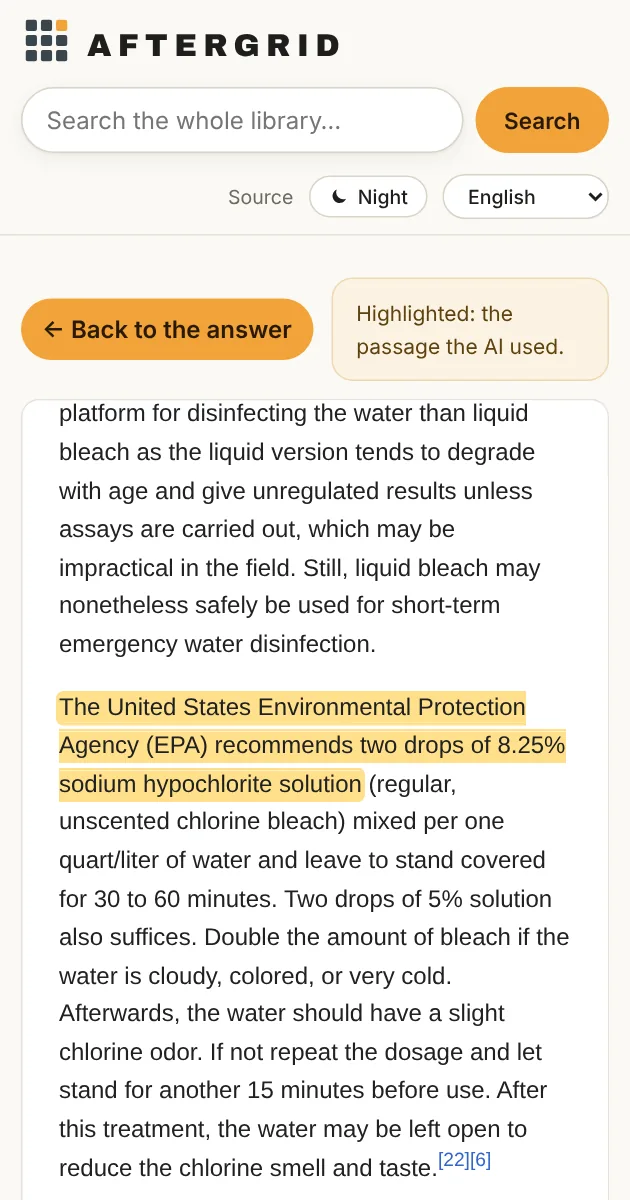
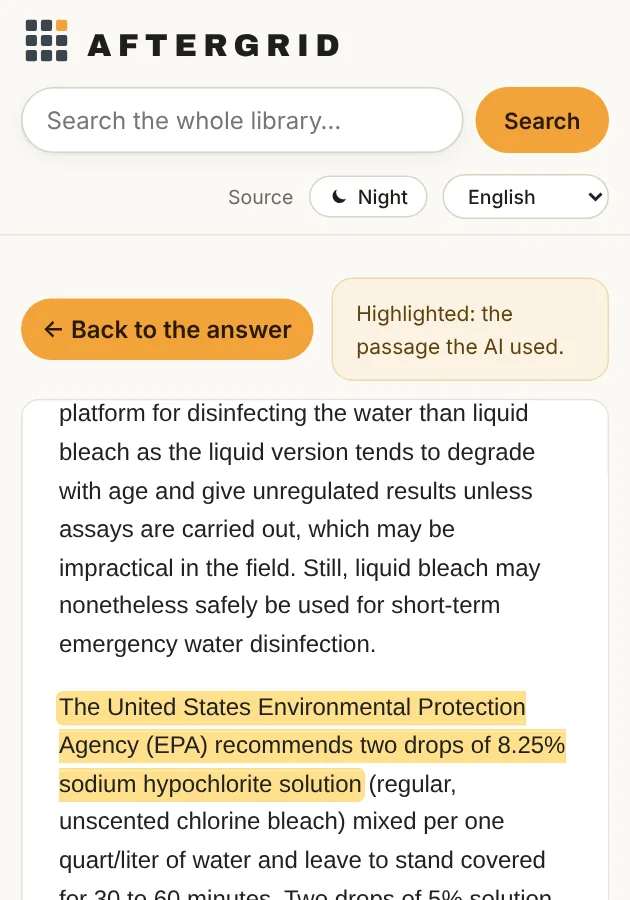
README: even screenshot grids, cropped tall images, repo layout. Landing: relative paths, fixed image shapes
Claude-Session: https://claude.ai/code/session_01427zrCsiu9qYPYssAzgq4C

diff --git a/landing/index.html b/landing/index.html
@@ -7,17 +7,17 @@
 <meta name="description" content="Aftergrid turns any PC into an offline survival and medical station: a backup of Wikipedia's medical library, 30 first-aid cards with diagrams, offline maps and a private AI that answers from the library, all from one USB stick. No internet needed. $19.99.">
 <meta property="og:title" content="Aftergrid: when the grid goes down, Aftergrid boots up">
 <meta property="og:description" content="Offline medical and survival library, maps and an on-device AI on one USB stick. Boots any PC. No internet needed.">
-<meta property="og:image" content="/assets/img/home-day.webp">
+<meta property="og:image" content="assets/img/home-day.webp">
 <meta name="theme-color" content="#faf9f5">
-<link rel="icon" href="/favicon.ico">
-<link rel="preload" href="/assets/fonts/archivo-black.woff2" as="font" type="font/woff2" crossorigin>
+<link rel="icon" href="favicon.ico">
+<link rel="preload" href="assets/fonts/archivo-black.woff2" as="font" type="font/woff2" crossorigin>
 <style>
-@font-face{font-family:"Inter";src:url(/assets/fonts/inter-regular.woff2) format("woff2");font-weight:400;font-display:swap}
-@font-face{font-family:"Inter";src:url(/assets/fonts/inter-medium.woff2) format("woff2");font-weight:500;font-display:swap}
-@font-face{font-family:"Inter";src:url(/assets/fonts/inter-semibold.woff2) format("woff2");font-weight:600;font-display:swap}
-@font-face{font-family:"Inter";src:url(/assets/fonts/inter-bold.woff2) format("woff2");font-weight:700;font-display:swap}
-@font-face{font-family:"Lora";src:url(/assets/fonts/lora.woff2) format("woff2");font-weight:400 700;font-display:swap}
-@font-face{font-family:"Archivo Black";src:url(/assets/fonts/archivo-black.woff2) format("woff2");font-display:swap}
+@font-face{font-family:"Inter";src:url(assets/fonts/inter-regular.woff2) format("woff2");font-weight:400;font-display:swap}
+@font-face{font-family:"Inter";src:url(assets/fonts/inter-medium.woff2) format("woff2");font-weight:500;font-display:swap}
+@font-face{font-family:"Inter";src:url(assets/fonts/inter-semibold.woff2) format("woff2");font-weight:600;font-display:swap}
+@font-face{font-family:"Inter";src:url(assets/fonts/inter-bold.woff2) format("woff2");font-weight:700;font-display:swap}
+@font-face{font-family:"Lora";src:url(assets/fonts/lora.woff2) format("woff2");font-weight:400 700;font-display:swap}
+@font-face{font-family:"Archivo Black";src:url(assets/fonts/archivo-black.woff2) format("woff2");font-display:swap}
 
 :root{
   --bg:#faf9f5; --surface:#fff; --sunk:#f2f0e8; --line:#e6e2d7; --line2:#d9d4c6;
@@ -32,7 +32,7 @@
 *{box-sizing:border-box}
 html{scroll-behavior:smooth}
 body{margin:0;background:var(--bg);color:var(--txt);font:17px/1.6 var(--sans);-webkit-font-smoothing:antialiased;overflow-x:hidden}
-img{max-width:100%;display:block}
+img{max-width:100%;height:auto;display:block}
 a{color:inherit}
 .wrap{max-width:var(--max);margin:0 auto;padding:0 24px}
 h1,h2,h3{margin:0;line-height:1.1}
@@ -274,13 +274,23 @@ footer a{color:#a29e95}
 .mbuy .btn{width:100%;padding:17px}
 @media(max-width:760px){.mbuy{display:block}}
 @media(prefers-reduced-motion:reduce){.reveal{opacity:1;transform:none;transition:none}.blackout{height:auto}.blackout .stage{position:relative;height:auto;padding:120px 0;background:var(--night);color:#e9e7e1}.blackout .line{position:relative;opacity:1;transform:none;margin:20px 0}.blackout .lines{height:auto}}
+
+/* shape locks */
+.diagrams img{width:100%;aspect-ratio:4/3;object-fit:contain;background:#fff}
+.shot-pair img{width:100%;aspect-ratio:7/10;object-fit:cover;object-position:top;background:#fff}
+.step img{width:100%;aspect-ratio:16/10;object-fit:cover;object-position:top;background:#0e1012}
+.step img.contain{object-fit:contain;background:#f3f3f3}
+.figs img{aspect-ratio:4/3;object-fit:contain}
+.maps-wrap img{aspect-ratio:16/10;object-fit:cover}
+.device img{width:100%;aspect-ratio:16/10;object-fit:cover;object-position:top}
+.hero-art .phone{aspect-ratio:390/844;object-fit:cover;object-position:top;background:#fff}
 </style>
 </head>
 <body>
 
 <nav class="top" id="nav">
   <div class="wrap">
-    <a class="brand" href="#top"><img src="/assets/aftergrid-mark.svg" alt=""><span>AFTERGRID</span></a>
+    <a class="brand" href="#top"><img src="assets/aftergrid-mark.svg" alt=""><span>AFTERGRID</span></a>
     <div class="navlinks">
       <a href="#ai">Offline AI</a>
       <a href="#library">Wikipedia &amp; library</a>
@@ -311,8 +321,8 @@ footer a{color:#a29e95}
       </div>
     </div>
     <div class="hero-art reveal d2">
-      <div class="device"><img src="/assets/img/home-day.webp" alt="Aftergrid Field Mode home screen" width="1440" height="900"><div class="stick"><i></i></div></div>
-      <img class="phone" src="/assets/img/phone-home.webp" alt="Aftergrid on a phone" width="390" height="844">
+      <div class="device"><img src="assets/img/home-day.webp" alt="Aftergrid Field Mode home screen" width="1440" height="900"><div class="stick"><i></i></div></div>
+      <img class="phone" src="assets/img/phone-home.webp" alt="Aftergrid on a phone" width="390" height="844">
     </div>
   </div>
 </header>
@@ -345,7 +355,7 @@ footer a{color:#a29e95}
     </div>
     <div class="ai-grid">
       <div class="term reveal">
-        <div class="term-bar"><img src="/assets/aftergrid-mark.svg" alt="" width="16" height="16">Ask Aftergrid <span class="pill">OFFLINE</span></div>
+        <div class="term-bar"><img src="assets/aftergrid-mark.svg" alt="" width="16" height="16">Ask Aftergrid <span class="pill">OFFLINE</span></div>
         <div class="term-body">
           <div class="askbox"><div class="q" id="q"></div><b>Ask</b></div>
           <div class="qchips" id="chips"></div>
@@ -358,8 +368,8 @@ footer a{color:#a29e95}
         <div class="pt reveal d3"><h3><i>③</i>It checks its own numbers</h3><p>Doses, drops, minutes: if a figure in the answer isn't in the sources, Aftergrid flags it so you check before you act.</p></div>
         <div class="pt reveal d4"><h3><i>④</i>Shows the diagram</h3><p>Medical answers come with the matching first-aid illustration, while the answer is still being written.</p></div>
         <div class="shot-pair reveal">
-          <img src="/assets/img/ask-answer.webp" alt="A real Aftergrid answer on a phone, with sources" loading="lazy" width="630" height="1688">
-          <img src="/assets/img/source-highlight.webp" alt="Source page with the passage the AI used highlighted" loading="lazy" width="630" height="1200">
+          <img src="assets/img/ask-answer.webp" alt="A real Aftergrid answer on a phone, with sources" loading="lazy" width="630" height="900">
+          <img src="assets/img/source-highlight.webp" alt="Source page with the passage the AI used highlighted" loading="lazy" width="630" height="900">
         </div>
       </div>
     </div>
@@ -407,15 +417,15 @@ footer a{color:#a29e95}
       <div class="cardlist">
         <span>Severe bleeding</span><span>Tourniquet</span><span>CPR</span><span>Choking (adult &amp; infant)</span><span>Stroke</span><span>Burns</span><span>Broken bones</span><span>Hypothermia</span><span>Frostbite</span><span>Heat stroke</span><span>Snake bite</span><span>Animal bites</span><span>Carbon monoxide</span><span>Dehydration</span><span>Safe water</span><span>Poisoning</span><span>Emergency childbirth</span><span>+13 more</span>
       </div>
-      <a class="dl" href="/downloads/aftergrid-first-aid-diagrams.zip" download><i>↓</i><span><b>Free download:</b> all 14 first-aid diagrams (PNG, 1 MB). Print them, laminate them, put them in the kit.</span></a>
+      <a class="dl" href="downloads/aftergrid-first-aid-diagrams.zip" download><i>↓</i><span><b>Free download:</b> all 14 first-aid diagrams (PNG, 1 MB). Print them, laminate them, put them in the kit.</span></a>
     </div>
     <div class="diagrams">
-      <figure class="reveal"><img src="/assets/diagrams/bleeding-pressure.webp" alt="Direct pressure on a bleeding wound" loading="lazy"><figcaption>Stop bleeding</figcaption></figure>
-      <figure class="reveal d1"><img src="/assets/diagrams/tourniquet-placement.webp" alt="Tourniquet placement" loading="lazy"><figcaption>Tourniquet</figcaption></figure>
-      <figure class="reveal d2"><img src="/assets/diagrams/cpr-adult.webp" alt="Adult CPR" loading="lazy"><figcaption>CPR</figcaption></figure>
-      <figure class="reveal"><img src="/assets/diagrams/choking-adult.webp" alt="Choking adult" loading="lazy"><figcaption>Choking</figcaption></figure>
-      <figure class="reveal d1"><img src="/assets/diagrams/recovery-position.webp" alt="Recovery position" loading="lazy"><figcaption>Recovery position</figcaption></figure>
-      <figure class="reveal d2"><img src="/assets/diagrams/water-treatment.webp" alt="Water treatment" loading="lazy"><figcaption>Safe water</figcaption></figure>
+      <figure class="reveal"><img src="assets/diagrams/bleeding-pressure.webp" alt="Direct pressure on a bleeding wound" loading="lazy"><figcaption>Stop bleeding</figcaption></figure>
+      <figure class="reveal d1"><img src="assets/diagrams/tourniquet-placement.webp" alt="Tourniquet placement" loading="lazy"><figcaption>Tourniquet</figcaption></figure>
+      <figure class="reveal d2"><img src="assets/diagrams/cpr-adult.webp" alt="Adult CPR" loading="lazy"><figcaption>CPR</figcaption></figure>
+      <figure class="reveal"><img src="assets/diagrams/choking-adult.webp" alt="Choking adult" loading="lazy"><figcaption>Choking</figcaption></figure>
+      <figure class="reveal d1"><img src="assets/diagrams/recovery-position.webp" alt="Recovery position" loading="lazy"><figcaption>Recovery position</figcaption></figure>
+      <figure class="reveal d2"><img src="assets/diagrams/water-treatment.webp" alt="Water treatment" loading="lazy"><figcaption>Safe water</figcaption></figure>
     </div>
   </div>
 </section>
@@ -429,12 +439,12 @@ footer a{color:#a29e95}
       <p>Aftergrid boots straight into Field Mode: one calm screen that puts every tool a click away.</p>
     </div>
     <div class="feat">
-      <div class="f reveal"><div class="ph"><img src="/assets/img/home-day.webp" alt="Field Mode home" loading="lazy"></div><div><h3>Field Mode</h3><p>Medical, Water, Food, Shelter, Repair, Power, Maps, Comms, Ask, Go-Bag. Big targets, plain words.</p></div></div>
-      <div class="f reveal d1"><div class="ph"><img src="/assets/img/search.webp" alt="Searching the whole library" loading="lazy"></div><div><h3>Search everything at once</h3><p>One box searches every book, manual and encyclopedia on the stick, in your language.</p></div></div>
-      <div class="f reveal d2"><div class="ph"><img src="/assets/img/comms.webp" alt="Radio frequencies" loading="lazy"></div><div><h3>Comms: who to listen to</h3><p>Emergency and calling frequencies for marine, aviation, CB, PMR446, FRS/GMRS, ham and NOAA weather, and what's legal to transmit.</p></div></div>
-      <div class="f reveal"><div class="ph"><img src="/assets/img/gobag.webp" alt="Emergency card" loading="lazy"></div><div><h3>Go-Bag emergency card</h3><p>Fill in a card for every family member: allergies, medications, contacts, meeting points, radio plan. Print it. It's saved on the encrypted stick only.</p></div></div>
-      <div class="f reveal d1"><div class="ph"><img src="/assets/img/home-night.webp" alt="Night mode" loading="lazy"></div><div><h3>Night mode &amp; low power</h3><p>Dark, low-glare screens for night use, and a low-power mode to stretch a laptop battery.</p></div></div>
-      <div class="f reveal d2"><div class="ph"><img src="/assets/img/wizard-desktop.webp" alt="Setup wizard on first boot" loading="lazy"></div><div><h3>Guided first boot</h3><p>Pick a language, lock your saves with a password, create your account, connect Wi-Fi if you have it, add extra libraries. Done.</p></div></div>
+      <div class="f reveal"><div class="ph"><img src="assets/img/home-day.webp" alt="Field Mode home" loading="lazy"></div><div><h3>Field Mode</h3><p>Medical, Water, Food, Shelter, Repair, Power, Maps, Comms, Ask, Go-Bag. Big targets, plain words.</p></div></div>
+      <div class="f reveal d1"><div class="ph"><img src="assets/img/search.webp" alt="Searching the whole library" loading="lazy"></div><div><h3>Search everything at once</h3><p>One box searches every book, manual and encyclopedia on the stick, in your language.</p></div></div>
+      <div class="f reveal d2"><div class="ph"><img src="assets/img/comms.webp" alt="Radio frequencies" loading="lazy"></div><div><h3>Comms: who to listen to</h3><p>Emergency and calling frequencies for marine, aviation, CB, PMR446, FRS/GMRS, ham and NOAA weather, and what's legal to transmit.</p></div></div>
+      <div class="f reveal"><div class="ph"><img src="assets/img/gobag.webp" alt="Emergency card" loading="lazy"></div><div><h3>Go-Bag emergency card</h3><p>Fill in a card for every family member: allergies, medications, contacts, meeting points, radio plan. Print it. It's saved on the encrypted stick only.</p></div></div>
+      <div class="f reveal d1"><div class="ph"><img src="assets/img/home-night.webp" alt="Night mode" loading="lazy"></div><div><h3>Night mode &amp; low power</h3><p>Dark, low-glare screens for night use, and a low-power mode to stretch a laptop battery.</p></div></div>
+      <div class="f reveal d2"><div class="ph"><img src="assets/img/wizard-desktop.webp" alt="Setup wizard on first boot" loading="lazy"></div><div><h3>Guided first boot</h3><p>Pick a language, lock your saves with a password, create your account, connect Wi-Fi if you have it, add extra libraries. Done.</p></div></div>
     </div>
     <div class="mini-feats">
       <div class="mf reveal"><b>Encrypted saves</b><span>Your notes and files stay on the stick, locked with your password.</span></div>
@@ -453,7 +463,7 @@ footer a{color:#a29e95}
       <h2>Maps that work when GPS apps don't.</h2>
       <p>Street-level vector maps stored on the stick, with roads, rivers and towns. No tiles to download, no signal needed.</p>
     </div>
-    <div class="maps-wrap reveal"><img src="/assets/img/maps.webp" alt="Offline map in Aftergrid" loading="lazy" width="1440" height="900"></div>
+    <div class="maps-wrap reveal"><img src="assets/img/maps.webp" alt="Offline map in Aftergrid" loading="lazy" width="1440" height="900"></div>
     <div class="regions reveal">
       <span>World overview</span><span>Greece</span><span>Crete (detailed)</span><span>Arkansas (detailed)</span><span class="add">+ All of Europe, street level, in setup</span><span class="add">+ All of the USA, in setup</span>
     </div>
@@ -471,8 +481,8 @@ footer a{color:#a29e95}
     <div class="steps">
       <div class="step reveal"><h3>Buy &amp; download</h3><p>Instant download: the Aftergrid image (9.9 GB) and the Aftergrid USB Maker for Windows.</p></div>
       <div class="step reveal d1"><h3>Plug in a USB stick</h3><p>16 GB minimum, 32 GB recommended so there's room for Wikipedia and your saves.</p></div>
-      <div class="step reveal d2"><h3>Run USB Maker</h3><p>Pick the stick, confirm, wait 10–25 minutes. It checks every byte when it's done.</p><img src="/assets/img/usbmaker.webp" alt="Aftergrid USB Maker for Windows" loading="lazy" width="450" height="365"></div>
-      <div class="step reveal d3"><h3>Boot any PC</h3><p>Plug in, power on, tap the boot-menu key (F12, F9 or Esc), choose the USB. Aftergrid starts. Nothing on the computer is changed.</p><img src="/assets/img/boot.webp" alt="Aftergrid boot menu" loading="lazy" width="1920" height="1080"></div>
+      <div class="step reveal d2"><h3>Run USB Maker</h3><p>Pick the stick, confirm, wait 10–25 minutes. It checks every byte when it's done.</p><img class="contain" src="assets/img/usbmaker.webp" alt="Aftergrid USB Maker for Windows" loading="lazy" width="450" height="365"></div>
+      <div class="step reveal d3"><h3>Boot any PC</h3><p>Plug in, power on, tap the boot-menu key (F12, F9 or Esc), choose the USB. Aftergrid starts. Nothing on the computer is changed.</p><img src="assets/img/boot.webp" alt="Aftergrid boot menu" loading="lazy" width="1920" height="1080"></div>
     </div>
     <div class="specs reveal" style="margin-top:56px">
       <div class="spec"><b>Computer</b><span>Most 64-bit Intel or AMD PCs and laptops from the last ~10 years</span></div>
@@ -570,7 +580,7 @@ sudo ./build-aftergrid.sh full</code>
 
 <footer>
   <div class="wrap">
-    <a class="brand" href="#top" style="color:#e9e7e1"><img src="/assets/aftergrid-mark.svg" alt=""><span>AFTERGRID</span></a>
+    <a class="brand" href="#top" style="color:#e9e7e1"><img src="assets/aftergrid-mark.svg" alt=""><span>AFTERGRID</span></a>
     <p>Aftergrid is reference material, not a substitute for trained medical help. Library content from Wikipedia, WikiMed, Appropedia and public-domain government manuals, used under their licenses. Fonts under the SIL Open Font License. © <span id="yr"></span> Aftergrid · getaftergrid.com</p>
   </div>
 </footer>
@@ -667,11 +677,11 @@ async function play(i, manual){
   ansEl.innerHTML = '';
   if (!await typeText(qEl, d.q, id, 32)) return;
   await wait(350); if (id !== run) return;
-  ansEl.innerHTML = `<div class="who"><img src="/assets/aftergrid-mark.svg" width="16" height="16" alt="">Aftergrid <em>OFFLINE</em></div><div class="think">Searching 10 libraries on this stick…</div>`;
+  ansEl.innerHTML = `<div class="who"><img src="assets/aftergrid-mark.svg" width="16" height="16" alt="">Aftergrid <em>OFFLINE</em></div><div class="think">Searching 10 libraries on this stick…</div>`;
   await wait(1100); if (id !== run) return;
   const think = ansEl.querySelector('.think'); think.textContent = 'Reading 3 sources · diagrams found';
   const figs = document.createElement('div'); figs.className = 'figs';
-  d.figs.forEach(f => { const im = new Image(); im.src = `/assets/diagrams/${f}.webp`; im.alt = f.replace(/-/g,' '); figs.appendChild(im); });
+  d.figs.forEach(f => { const im = new Image(); im.src = `assets/diagrams/${f}.webp`; im.alt = f.replace(/-/g,' '); figs.appendChild(im); });
   await wait(500); if (id !== run) return;
   // stream answer by words, keeping tags intact
   const body = document.createElement('div'); ansEl.appendChild(body);

diff --git a/README.md b/README.md
@@ -1,7 +1,17 @@
-<p align="center"><img src="docs/logo.png" alt="Aftergrid" width="360"></p>
+<p align="center"><img src="docs/logo.png" alt="Aftergrid" width="320"></p>
 
 <p align="center"><b>When the grid goes down, Aftergrid boots up.</b><br>
-A complete offline survival and medical library, maps and a local AI on one USB stick. Plug it into any PC, boot, and it works with no internet.</p>
+An offline survival and medical library, maps and an on-device AI on one USB stick.<br>Plug it into any PC, boot, and it works with no internet.</p>
+
+<p align="center">
+<a href="#whats-on-the-stick">Features</a> ·
+<a href="#screenshots">Screenshots</a> ·
+<a href="#build-it">Build</a> ·
+<a href="#repository-layout">Repo layout</a> ·
+<a href="landing/">Landing page</a>
+</p>
+
+<p align="center"><img src="docs/screenshots/01-home-day.png" alt="Aftergrid Field Mode" width="860"></p>
 
 ---
 
@@ -9,73 +19,135 @@ A complete offline survival and medical library, maps and a local AI on one USB 
 
 | | |
 |---|---|
-| **Field Mode** | One home screen for everything: Medical, Water, Food, Shelter, Repair, Power, Maps, Comms, Ask, Go-Bag. Works on the PC, and on any phone on the same Wi-Fi. |
-| **Offline library** | 10 libraries and 7 field manuals: WikiMed medical encyclopedia, US Army First Aid (FM 4-25.11), Special Forces Medical Handbook (ST 31-91B), Emergency War Surgery, Appropedia, Greek Wikipedia and more. One search box covers all of them. |
-| **First-aid cards** | 30 short cards for emergencies (bleeding, CPR, choking, burns, stroke, hypothermia, snake bite, childbirth…) with 14 drawn diagrams. Each card lists its sources. |
-| **Ask Aftergrid** | A local AI (Qwen3, runs on the CPU, no internet) that answers from the library only, cites its sources, shows the relevant diagrams, and flags any number that isn't in the sources. |
-| **Source links** | Every citation opens the original page with the exact passage highlighted. |
-| **Offline maps** | Street-level vector maps that work offline, with "where am I". |
-| **Comms** | Emergency and calling frequencies (marine, aviation, CB, PMR446, FRS/GMRS, ham, NOAA) and what you may legally do with each. |
-| **Go-Bag card** | A printable emergency card for each family member, saved only on the encrypted stick. |
-| **Encrypted saves** | Your files, notes and settings stay on the stick, encrypted (LUKS2). Lose the stick, nobody reads it. |
-| **Six languages** | English, Ελληνικά, Français, Deutsch, Português, Türkçe: OS, portal and search. |
-| **Day / Night** | Light by default, Night mode for the dark, and a low-power mode to save battery. |
-| **Claude built in** | Claude desktop and Claude Code are preinstalled for when there *is* a connection. |
-| **Setup wizard** | First boot walks you through language, encrypted saves, your own account, Wi-Fi (optional) and extra downloads. |
-| **USB Maker for Windows** | One small program writes the stick and checks every byte afterwards. |
+| **Field Mode** | One home screen: Medical, Water, Food, Shelter, Repair, Power, Maps, Comms, Ask, Go-Bag. Also opens on any phone on the same Wi-Fi. |
+| **Wikipedia, backed up** | WikiMed (Wikipedia's medical encyclopedia, with images) and Greek Wikipedia are on the stick. All of English Wikipedia is a one-click add-on in setup: 12 GB (every article's summary and key facts) or ~110 GB complete with images. |
+| **Field manuals** | US Army FM 4-25.11 First Aid, ST 31-91B Special Forces Medical Handbook, Emergency War Surgery, Nuclear War Survival Skills, FM 21-76 Survival, ATP 3-50.21, FM 21-10 Field Hygiene. |
+| **Survival libraries** | Appropedia, post-disaster, water, food preparation, knots and medicine collections. One search box covers everything. |
+| **First-aid cards** | 30 short cards with 14 drawn diagrams. Each lists the guideline it's based on. |
+| **Ask Aftergrid** | On-device AI (Qwen3, runs on the CPU) that answers from the library only, cites numbered sources, shows the matching diagrams and flags any number it can't find in the sources. |
+| **Source links** | Every citation opens the original page with the passage highlighted. |
+| **Offline maps** | World overview, Greece, Crete and Arkansas built in. All of Europe or the USA at street level from setup. |
+| **Comms** | Emergency and calling frequencies (marine, aviation, CB, PMR446, FRS/GMRS, ham, NOAA) and what's legal to transmit. |
+| **Go-Bag card** | Printable emergency card per family member, saved only on the encrypted stick. |
+| **Encrypted saves** | Files, notes and settings persist on the stick, encrypted with LUKS2. |
+| **Six languages** | English, Ελληνικά, Français, Deutsch, Português, Türkçe. |
+| **Day / Night** | Light by default, Night mode, low-power mode. |
+| **Claude built in** | Claude desktop and Claude Code preinstalled for when there is a connection. |
+| **Setup wizard** | First boot: language, encrypted saves, your account, optional Wi-Fi, extra downloads. |
+| **USB Maker** | Windows app that writes the stick and verifies every byte. |
 
 ## Screenshots
 
 ### Field Mode
-| Day | Night | Ελληνικά |
-|---|---|---|
-| ![Home, day](docs/screenshots/01-home-day.png) | ![Home, night](docs/screenshots/02-home-night.png) | ![Home in Greek](docs/screenshots/03-home-greek.png) |
 
-### Medical and first aid
-| Medical shelf | First-aid card | Diagrams |
-|---|---|---|
-| ![Medical topic](docs/screenshots/04-topic-medical.png) | ![Severe bleeding card](docs/screenshots/12-first-aid-card.png) | ![First-aid diagrams](docs/screenshots/15-first-aid-diagrams.jpg) |
+<table>
+<tr>
+<td width="33%"><img src="docs/screenshots/01-home-day.png" alt="Home, day"></td>
+<td width="33%"><img src="docs/screenshots/02-home-night.png" alt="Home, night"></td>
+<td width="33%"><img src="docs/screenshots/03-home-greek.png" alt="Home in Greek"></td>
+</tr>
+<tr><td align="center">Day</td><td align="center">Night</td><td align="center">Ελληνικά</td></tr>
+</table>
 
-### Ask Aftergrid (offline AI)
-| Ask | Answer with sources and diagrams | Source, passage highlighted |
-|---|---|---|
-| ![Ask](docs/screenshots/09-ask-empty.png) | ![Answer with diagrams](docs/screenshots/13-ask-answer-with-diagrams.jpg) | ![Highlighted source](docs/screenshots/14-source-highlighted.png) |
+### Ask Aftergrid: the on-device AI
 
-### Search, maps, comms, go-bag
-| Search the whole library | Offline maps |
-|---|---|
-| ![Search](docs/screenshots/05-search.png) | ![Maps](docs/screenshots/06-maps.png) |
+<table>
+<tr>
+<td width="33%"><img src="docs/screenshots/09-ask-empty.png" alt="Ask"></td>
+<td width="33%"><img src="docs/screenshots/05-search.png" alt="Search"></td>
+<td width="33%"><img src="docs/screenshots/04-topic-medical.png" alt="Medical shelf"></td>
+</tr>
+<tr><td align="center">Ask a question</td><td align="center">Search the whole library</td><td align="center">Medical shelf</td></tr>
+</table>
 
-| Radio frequencies | Emergency card |
-|---|---|
-| ![Comms](docs/screenshots/07-comms-radio.png) | ![Go-bag card](docs/screenshots/08-gobag-card.png) |
+<table>
+<tr>
+<td width="33%"><img src="docs/screenshots/13-ask-answer.jpg" alt="Answer with sources"></td>
+<td width="33%"><img src="docs/screenshots/14-source-highlighted.png" alt="Source with passage highlighted"></td>
+<td width="33%"><img src="docs/screenshots/12-first-aid-card.png" alt="First-aid card"></td>
+</tr>
+<tr><td align="center">A real answer, with sources</td><td align="center">Source, passage highlighted</td><td align="center">First-aid card</td></tr>
+</table>
+
+### First-aid diagrams
+
+<p align="center"><img src="docs/screenshots/15-first-aid-diagrams.jpg" alt="First-aid diagrams" width="860"></p>
+
+### Maps, comms, go-bag
+
+<table>
+<tr>
+<td width="33%"><img src="docs/screenshots/06-maps.png" alt="Offline maps"></td>
+<td width="33%"><img src="docs/screenshots/07-comms-radio.png" alt="Radio frequencies"></td>
+<td width="33%"><img src="docs/screenshots/08-gobag-card.png" alt="Emergency card"></td>
+</tr>
+<tr><td align="center">Offline maps</td><td align="center">Radio frequencies</td><td align="center">Go-Bag emergency card</td></tr>
+</table>
 
 ### On a phone
-| Home | Search |
-|---|---|
-| <img src="docs/screenshots/10-phone-home.png" width="300"> | <img src="docs/screenshots/11-phone-search.png" width="300"> |
 
-### Booting and setup
-| Boot menu | Desktop + setup wizard | Wizard |
-|---|---|---|
-| ![Boot menu](docs/screenshots/16-boot-menu.png) | ![Desktop](docs/screenshots/17-desktop-setup-wizard.png) | ![Wizard](docs/screenshots/18-setup-wizard-welcome.png) |
+<table>
+<tr>
+<td width="25%"><img src="docs/screenshots/10-phone-home.png" alt="Phone home"></td>
+<td width="25%"><img src="docs/screenshots/11-phone-search.png" alt="Phone search"></td>
+<td width="50%">Any phone on the same Wi-Fi opens the full library in its browser. No app to install.</td>
+</tr>
+</table>
 
-### Making the stick on Windows
-![USB Maker](docs/screenshots/19-usb-maker-windows.png)
+### Boot, setup and the USB Maker
+
+<table>
+<tr>
+<td width="33%"><img src="docs/screenshots/16-boot-menu.png" alt="Boot menu"></td>
+<td width="33%"><img src="docs/screenshots/17-desktop-setup-wizard.png" alt="Desktop with setup wizard"></td>
+<td width="33%"><img src="docs/screenshots/19-usb-maker-windows.png" alt="USB Maker for Windows"></td>
+</tr>
+<tr><td align="center">Boot menu</td><td align="center">First boot: setup wizard</td><td align="center">USB Maker for Windows</td></tr>
+</table>
 
 ## Build it
 
-Needs Debian/Ubuntu, root, ~20 GB free disk.
+Needs Debian or Ubuntu, root, ~20 GB free.
+
+```bash
+./fetch-content.sh                 # libraries, models, maps, packages (~9 GB, not in git)
+sudo ./build-aftergrid.sh full     # or: standard | lite
+```
+
+Output goes to `out/parts/`: the image in 380 MB parts, `aftergrid-image.json` and `Aftergrid USB Maker.exe`.
+
+**Write the stick:**
+- **Windows:** put the parts next to `Aftergrid USB Maker.exe` and run it.
+- **Linux / Mac:** `cat Aftergrid-*.part | sudo dd of=/dev/sdX bs=4M status=progress`
+
+Full details in [`BUILD.md`](BUILD.md).
+
+## Repository layout
 
 ```
-./fetch-content.sh            # libraries, models, maps, packages (~9 GB, not in git)
-sudo ./build-aftergrid.sh full   # or: core | standard
+build-aftergrid.sh        Build the ISO (live-build) and split it into parts
+fetch-content.sh          Download libraries, AI models, maps and packages
+build/config/             live-build config: package lists, hooks, boot menu
+  includes.chroot/        Everything installed into the OS
+    usr/share/aftergrid/portal/   Field Mode web app (search, Ask, maps, comms, go-bag)
+    usr/local/bin/                Setup wizard, AI launcher, semantic search, control menu
+    etc/systemd/system/           Library, AI, embedding and search services
+content/
+  cards/                  First-aid cards and SVG diagrams (source)
+  tools/                  Builds cards and manuals into searchable ZIM files
+  ai/                     Semantic search index metadata
+flasher/usbmaker/         Aftergrid USB Maker for Windows (C#)
+i18n/                     Translations (6 languages) and generator
+eval/                     Retrieval and answer-quality tests for the AI
+landing/                  getaftergrid.com landing page (static, Vercel-ready)
+marketing/                Social video and image generators
+branding/                 Logo, wallpaper and boot-screen generator
+web/                      Map style and font tooling
+docs/                     Screenshots and logo used in this README
 ```
 
-Output: `out/parts/` (the image in 380 MB parts + `aftergrid-image.json` + `Aftergrid USB Maker.exe`). Put the parts next to the USB Maker on Windows and run it, or on Linux/Mac: `cat Aftergrid-*.part | sudo dd of=/dev/sdX bs=4M`.
-
-See `BUILD.md` for details and `CLAUDE.md` for the code map.
+Code map for Claude Code: [`CLAUDE.md`](CLAUDE.md).
 
 ## Medical disclaimer
 
-Aftergrid is reference material, not a substitute for trained help. First-aid cards are under clinical review; see the review checklist before relying on them.
+Aftergrid is reference material, not a substitute for trained help. The first-aid cards are under clinical review.
